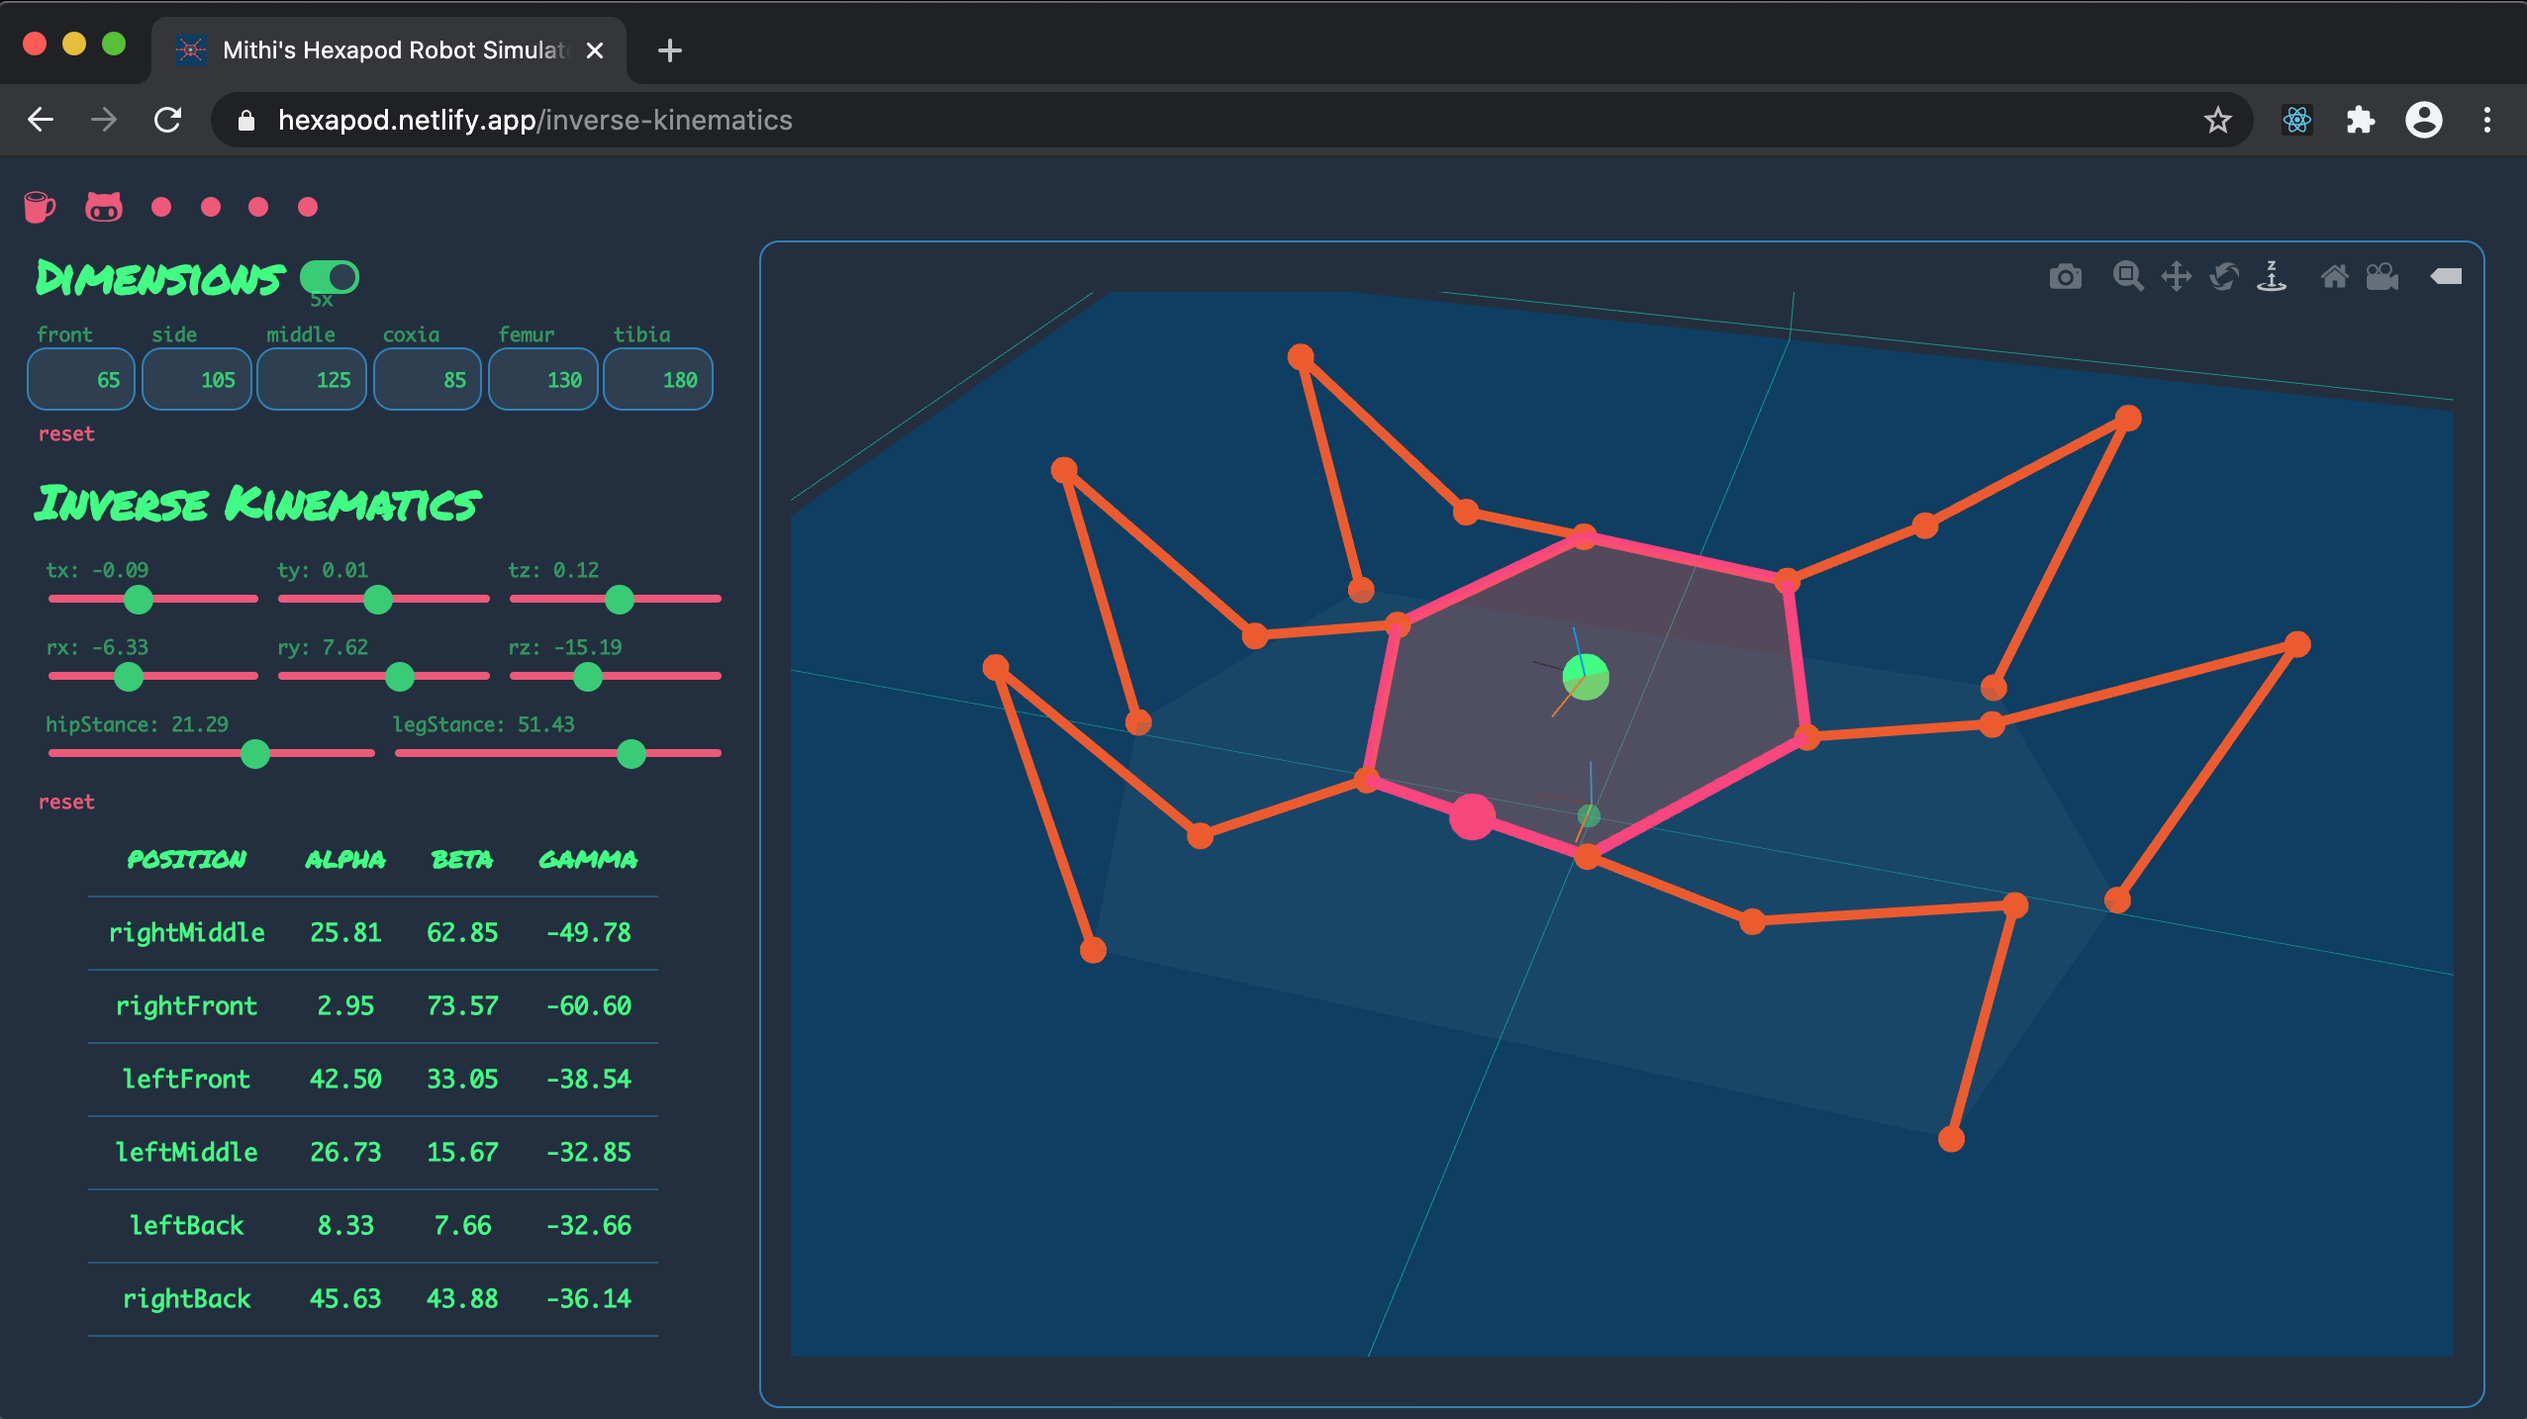
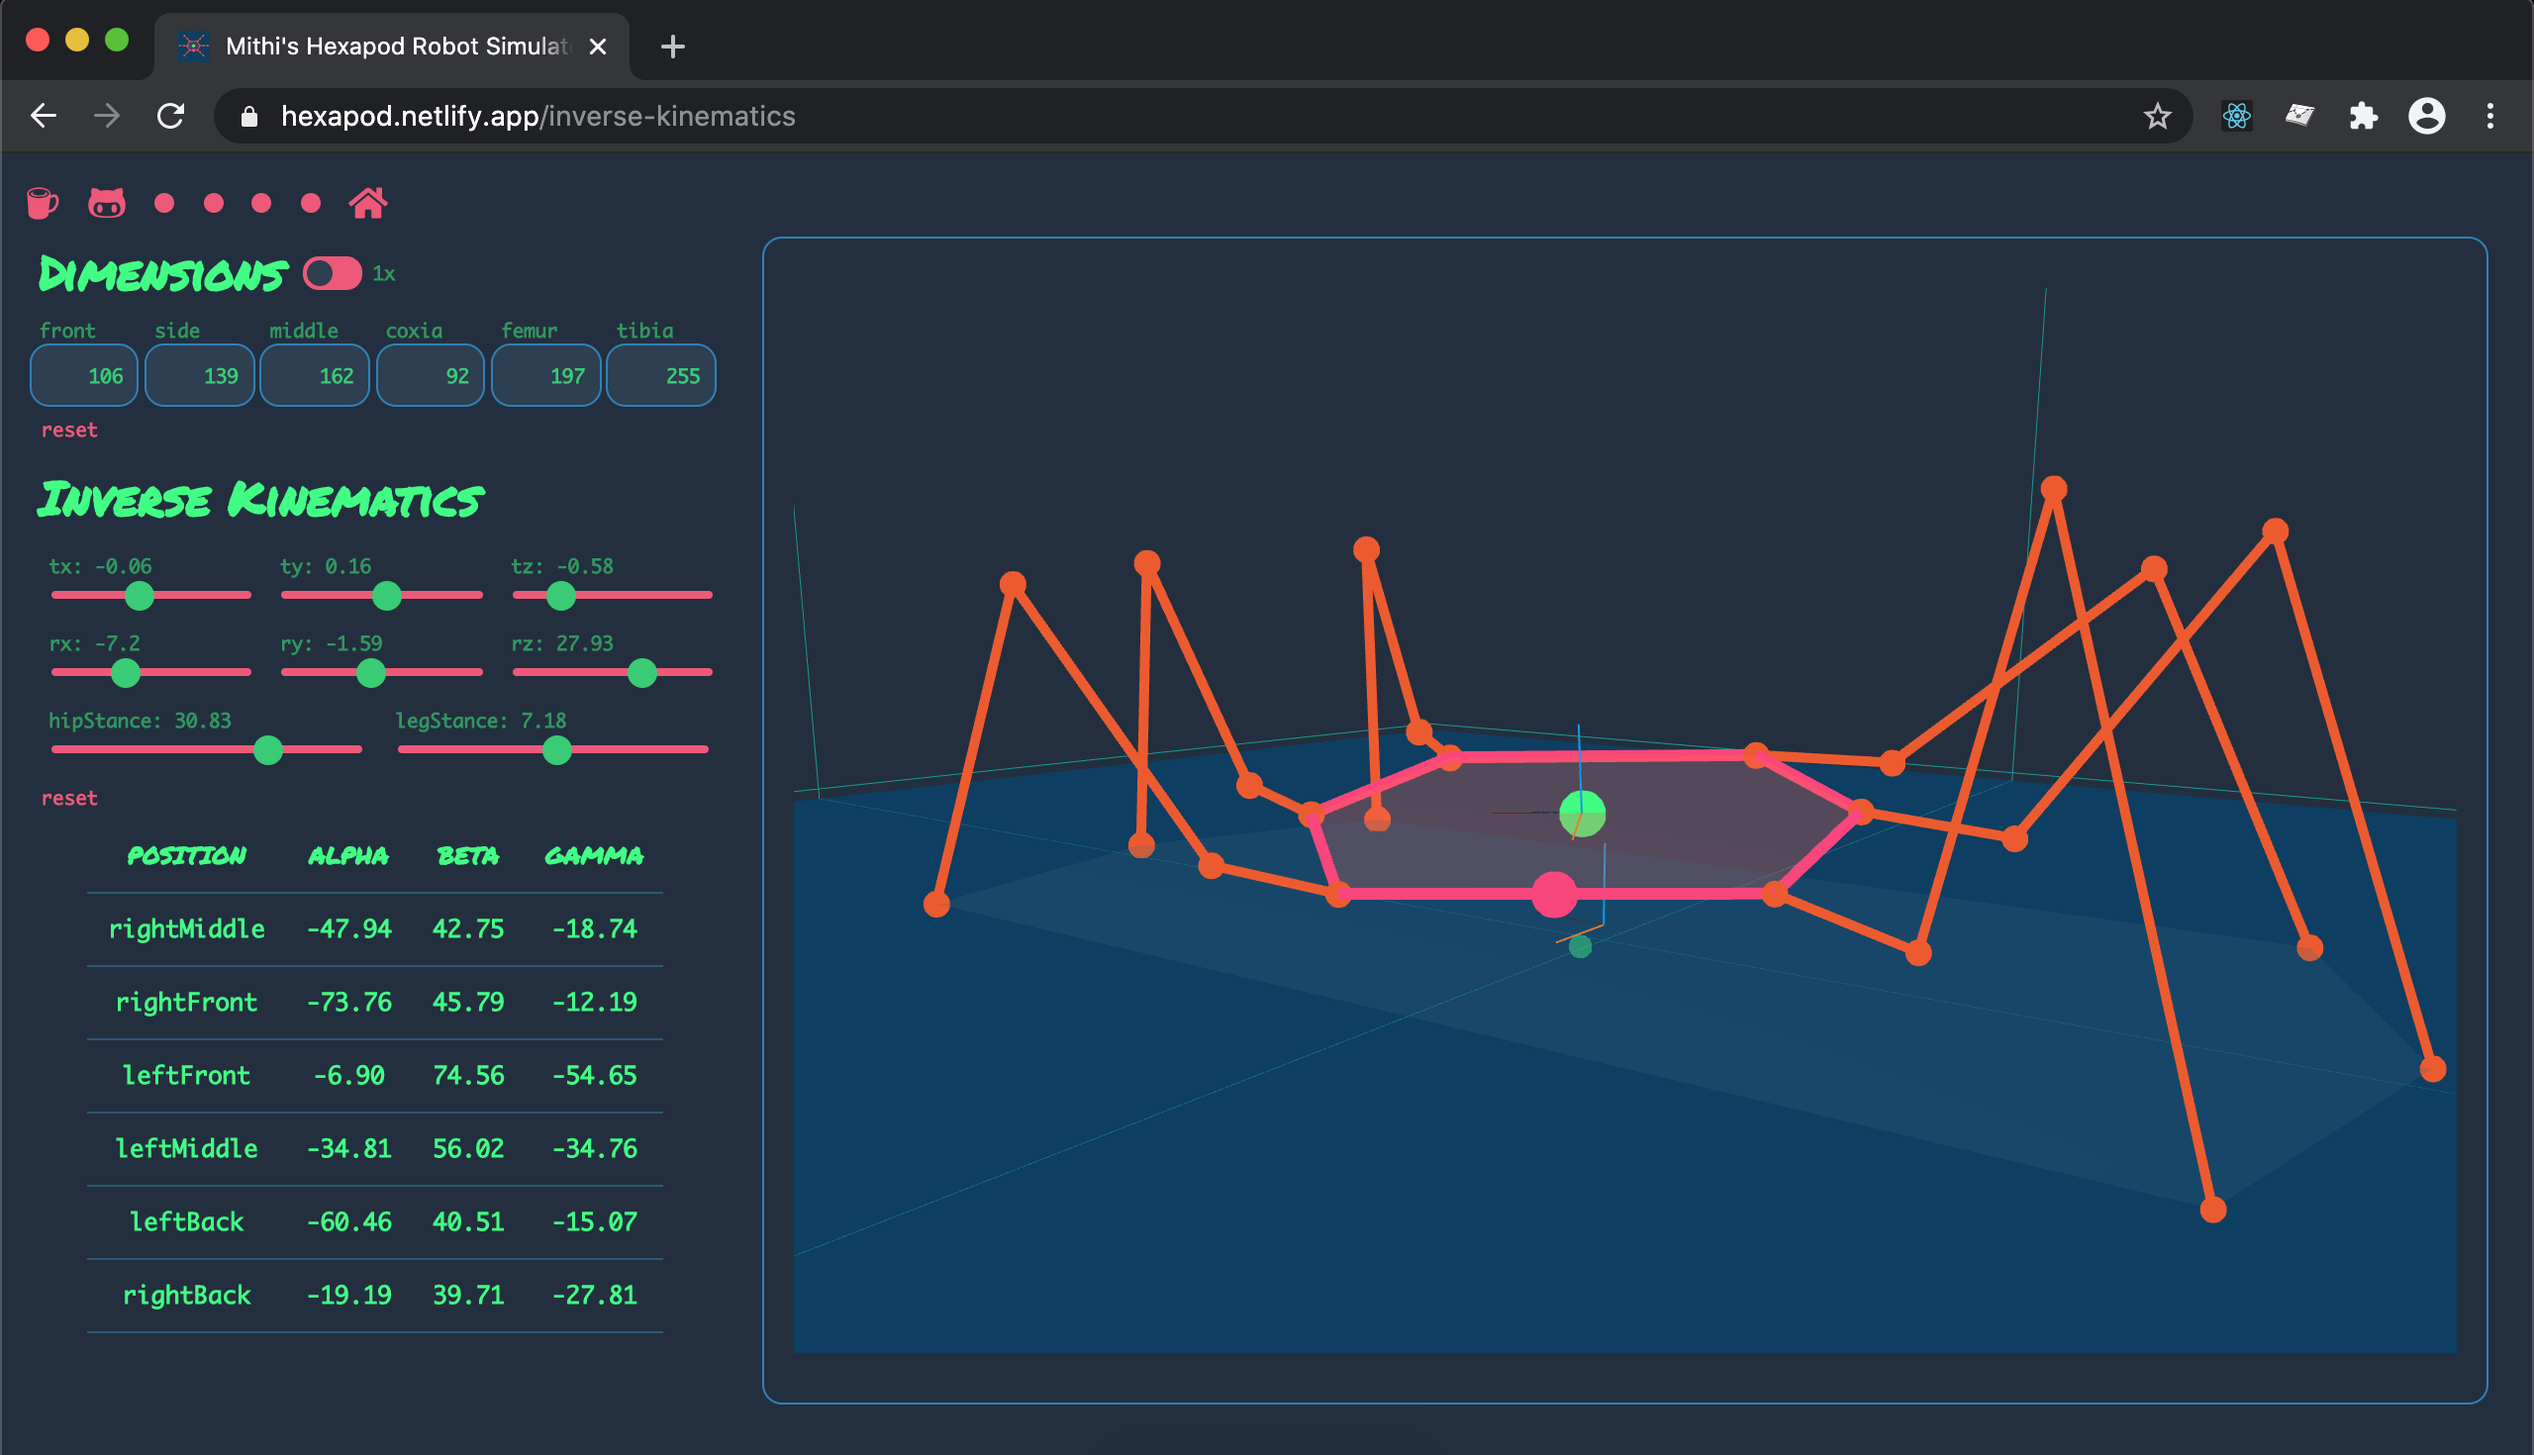
Update README (#120)

diff --git a/README.md b/README.md
@@ -6,34 +6,39 @@
 [![code style: prettier](https://img.shields.io/badge/code_style-prettier-ff69b4.svg?style=flat)](https://github.com/prettier/prettier)
 [![](https://img.shields.io/badge/Buy%20me%20-coffee!-orange.svg?logo=buy-me-a-coffee&color=795548)](https://ko-fi.com/minimithi)
 
-
-
 # Mithi's Bare-Minimum Hexapod Robot Simulator Rewrite
-_(in Javascript!)_
-  
 
-<img src="https://mithi.github.io/robotics-blog/show-off.gif" alt="drawing" width="350" align="right" />
+<img src="https://mithi.github.io/robotics-blog/show-off.gif" alt="drawing" width="400" align="left" /> 
 
-- Solve (and visualize) forward and inverse kinematics purely on your browser! It's a complete rewrite of the [one I wrote in Python 🐍](https://github.com/mithi/hexapod-robot-simulator). Extremely fast! Zero server-side computations!
+Solve (and visualize) forward and inverse kinematics purely on your browser! It's a complete rewrite of the [one I wrote in Python 🐍](https://github.com/mithi/hexapod-robot-simulator). Extremely fast! Zero server-side computations!
 
-- Consider buying me [a few cups of coffee ☕ ☕ ☕](https://ko-fi.com/minimithi) to motivate me to build other robotics-related visualizers. (Quadrotors?!)
+:heart: UPDATE! It can also simulate gaits now 🥰 
 
-- See: [https://hexapod.netlify.app](https://hexapod.netlify.app)
+Consider buying me [a few cups of coffee ☕ ☕ ☕](https://ko-fi.com/minimithi) to motivate me to build other robotics-related visualizers. (Quadrotors?!)
+
+See: [https://hexapod.netlify.app](https://hexapod.netlify.app)
+
+
+<img src="https://mithi.github.io/robotics-blog/show-off-v2-1.gif" alt="drawing" width="250" align="right"/>
+
 
 ## Contributions Welcome!
 
-- Any contribution to improve the source code will be extremely appreciated. 💙 Anything. Anything at all. This is my first time coding in Javascript and this is also my first React app, so I'm sure there is a lot of room for improvement. [Contributing Guide](./CONTRIBUTING.md).
-
-| <img src="./public/img/screenshot1.png" alt="drawing" width="290" /> | <img src="./public/img/screenshot2.png" alt="drawing" width="450" />  | <img src="./public/img/screenshot4.png" alt="drawing" width="160" /> |
-|----|----|----|
-| . | . | . |
+Any contribution to improve the source code will be extremely appreciated. 💙 Anything. Anything at all. This is my first time coding in Javascript and this is also my first React app, so I'm sure there is a lot of room for improvement. [Contributing Guide](./CONTRIBUTING.md).
 
 ## Main Contributors
+
 I will put your name below if I've merged your PR multiple times or if you've substantially contributed to this project in other ways.
 
 - [@mithi](https://github.com/mithi)
 - [@icyJoseph](https://github.com/icyJoseph)
 - [@mikong](https://github.com/mikong)
+
+| ![](./public/img/screenshot4.png) | ![](./public/img/screenshot5.png) |
+|------|-------|
+
+| ![](./public/img/screenshot6.png) | ![](./public/img/screenshot3.png) |
+|------|-------|
 
 ## I love badges! (Don't we all?)  
 
